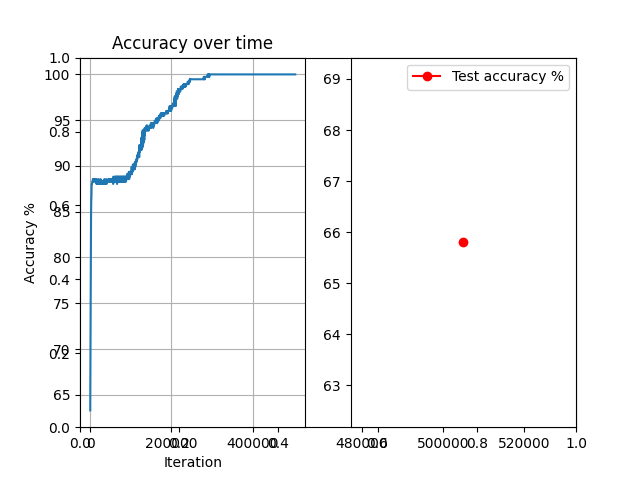
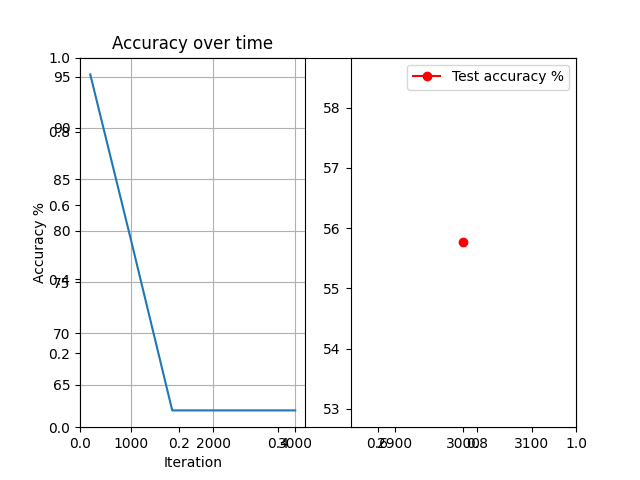
Attempted RNN

diff --git a/fnn.py b/fnn.py
@@ -31,6 +31,31 @@ class FeedforwardNeuralNetModel(nn.Module):
         out = self.fc3(out)
         return out
 
+class RecurrentNeuralNetModel(nn.Module):
+    def __init__(self, input_dim, hidden_dim, layer_dim, output_dim):
+        super(RecurrentNeuralNetModel, self).__init__()
+        self.hidden_dim = hidden_dim
+        self.layer_dim = layer_dim
+        self.lstm = nn.LSTM(input_dim, hidden_dim, layer_dim, batch_first=True)
+        self.fc = nn.Linear(hidden_dim, output_dim)
+        self.sigmoid = nn.Sigmoid()
+        self.dropout = nn.Dropout(p=0.5)
+    
+    def forward(self, x):
+
+        #Init hidden state with 0s
+        h0 = torch.zeros(self.layer_dim, x.size(0), self.hidden_dim).to(device)
+
+        c0 = torch.zeros(self.layer_dim, x.size(0), self.hidden_dim).to(device)
+        #Detach hidden state to avoid exploding gradients
+        out, _ = self.lstm(x, (h0, c0))
+
+        #index hidden state of last time step
+        #out.size() => 100, 20, 10
+        # We just want last time step hidden states
+        out = self.fc(out[:, -1, :])
+        return out
+
 class CSVDataset(Dataset):
     def __init__(self, features, labels):
         self.features = torch.tensor(features, dtype=torch.float32)
@@ -66,13 +91,14 @@ dataset_features = (dataset_features - mean) / std
 test_dataset_features = (test_dataset_features - mean) / std
 
 batch_size = 100
-n_iters = 50000
+n_iters = 3000
 num_epochs = n_iters / (len(dataset_features) / batch_size)
 num_epochs = int(num_epochs)
 print(num_epochs)
 input_dim = 33
 output_dim = 2
 hidden_dim = 800
+layer_dim = 2
 
 train_dataset = CSVDataset(dataset_features, train_portion_dataset_labels)
 test_dataset = CSVDataset(test_dataset_features, test_portion_dataset_labels)
@@ -83,12 +109,12 @@ test_loader = torch.utils.data.DataLoader(dataset=test_dataset,
                                             batch_size = batch_size)
 
 
-model = FeedforwardNeuralNetModel(input_dim, hidden_dim, output_dim)
+model = RecurrentNeuralNetModel(input_dim, hidden_dim, layer_dim, output_dim)
 
 criterion = nn.CrossEntropyLoss()
 
-learning_rate = 0.001
-optimizer = torch.optim.SGD(model.parameters(), lr=learning_rate) 
+learning_rate = 0.01
+optimizer = torch.optim.Adam(model.parameters(), lr=learning_rate) 
 
  
 val_split = 0.2
